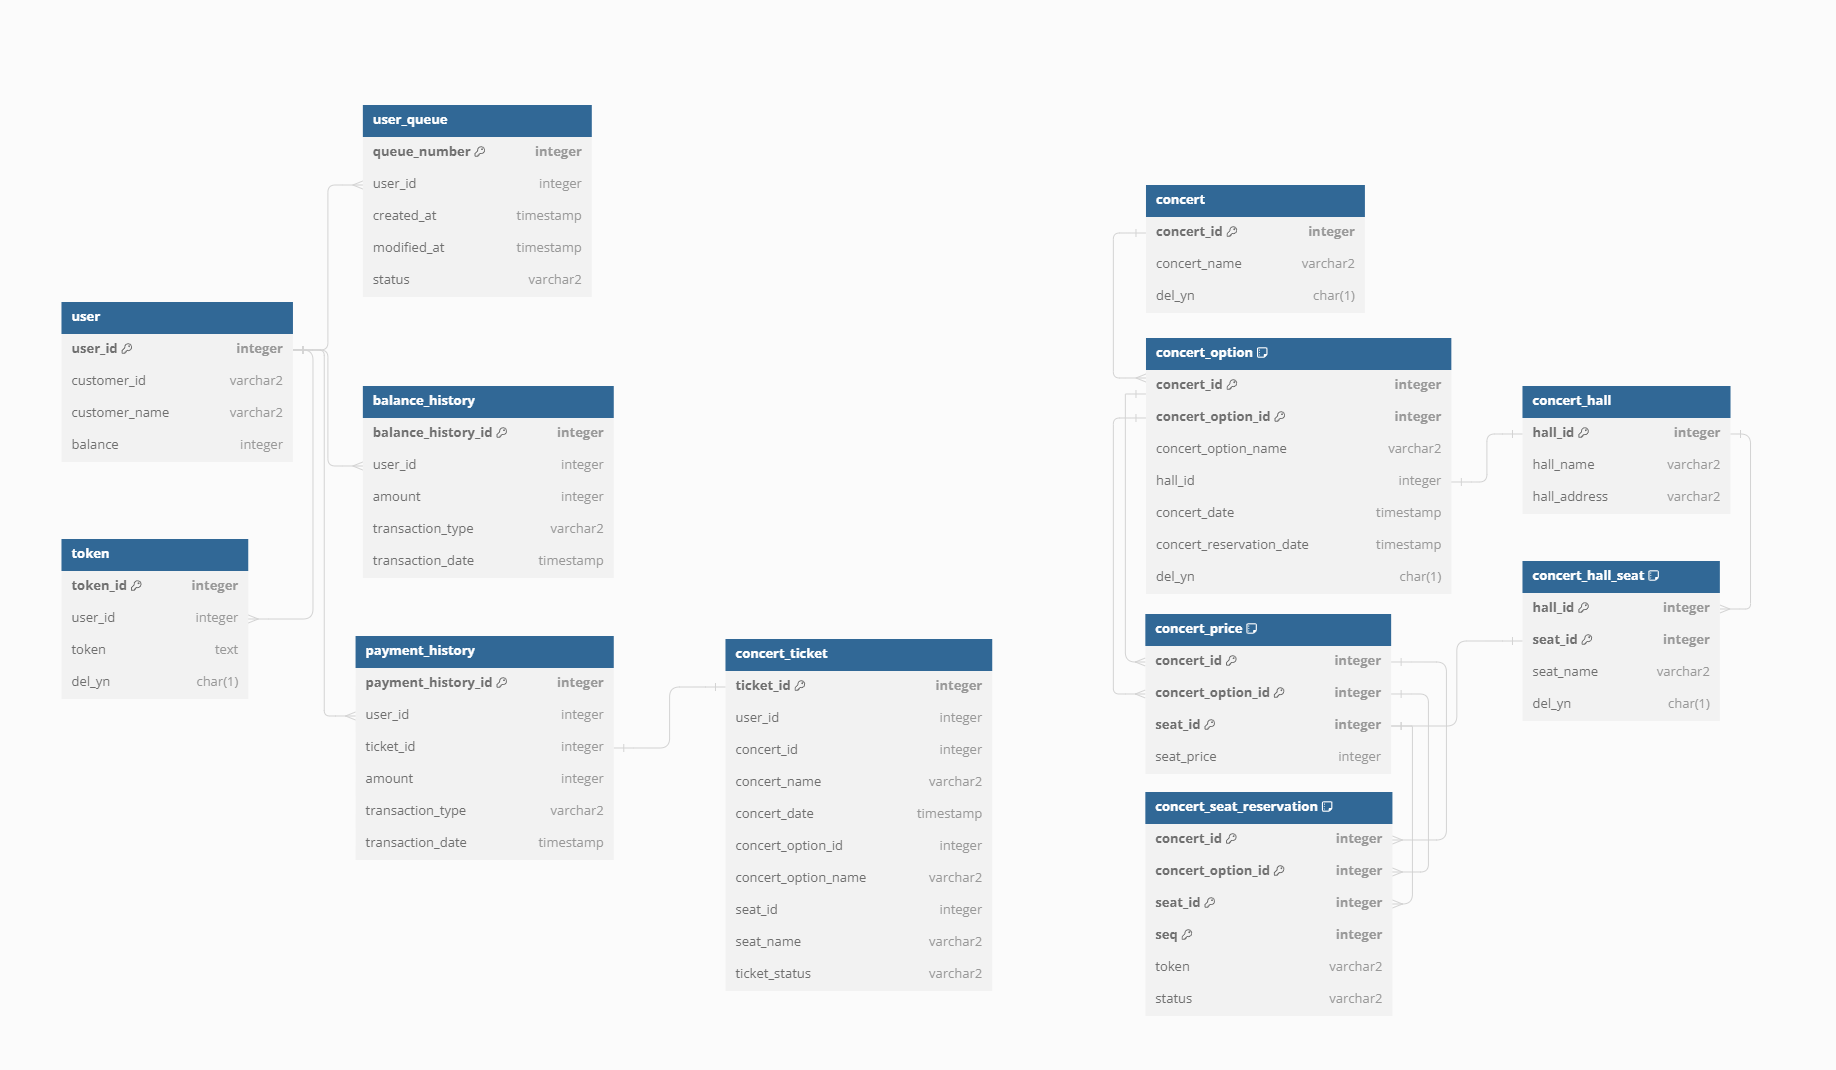
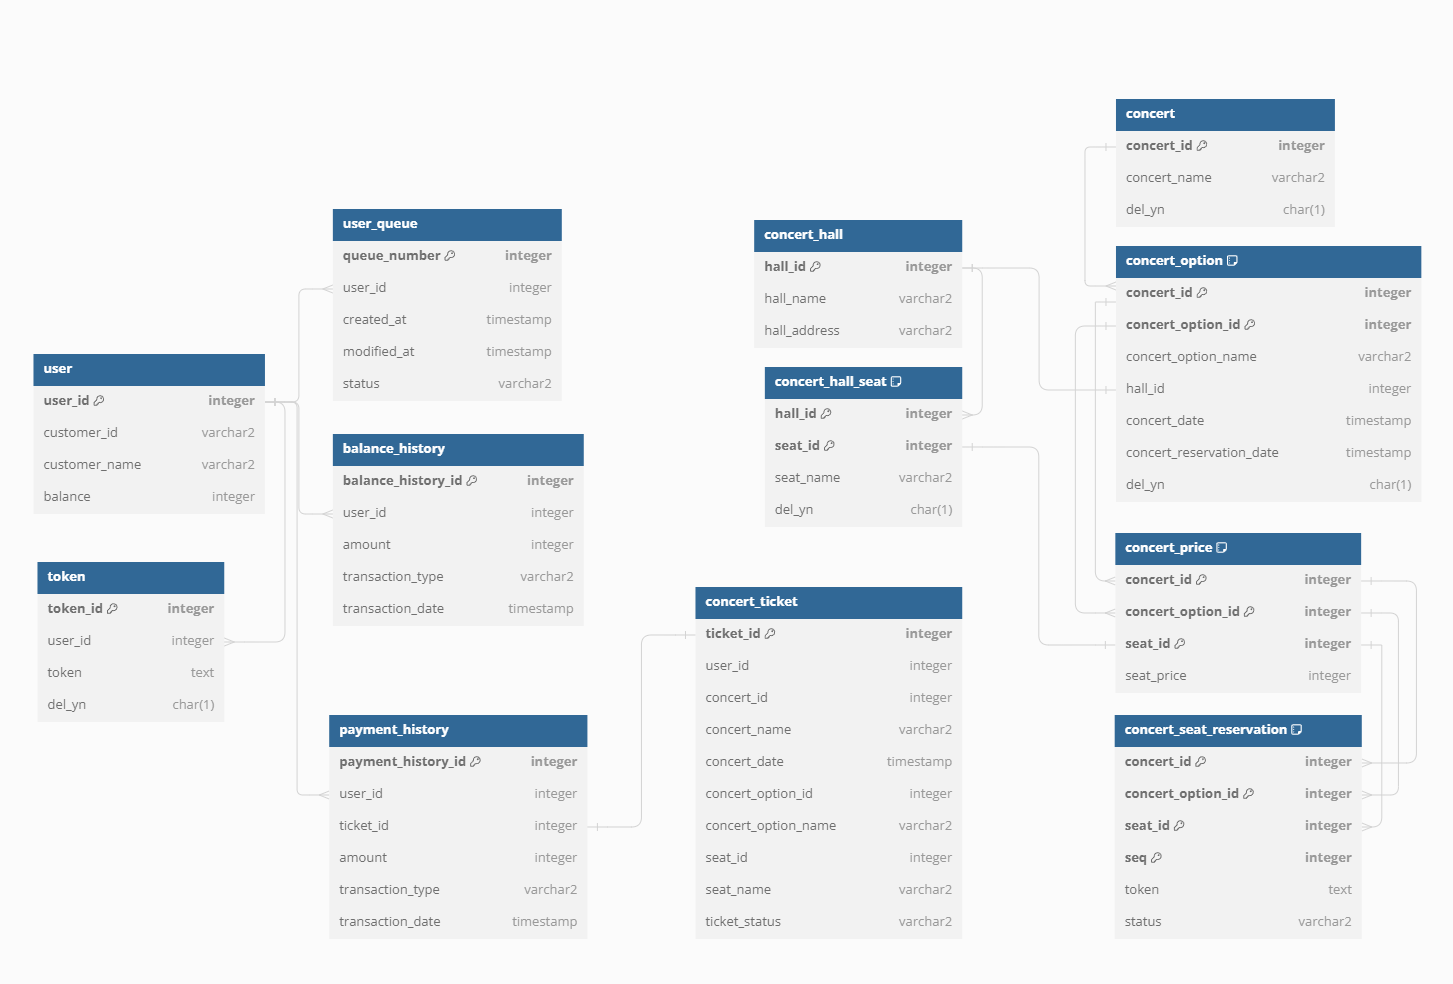
Docs: ERD 수정

diff --git a/README.md b/README.md
@@ -14,4 +14,4 @@
    > <img width="160" alt="image" src="https://github.com/Thanlee1216/hhplus-concert/assets/97030142/0f503d40-aabb-4b25-93b0-7bc7f1d1e7a3">
    
 ### ERD
-   > <img width="800" alt="image" src="https://github.com/Thanlee1216/hhplus-concert/assets/97030142/316de948-ddc4-4e73-bac2-d8839b2ec0ac">
+   > <img width="800" alt="image" src="https://github.com/Thanlee1216/hhplus-concert/assets/97030142/61f06366-ad89-4138-8370-62b8de639ff4">
